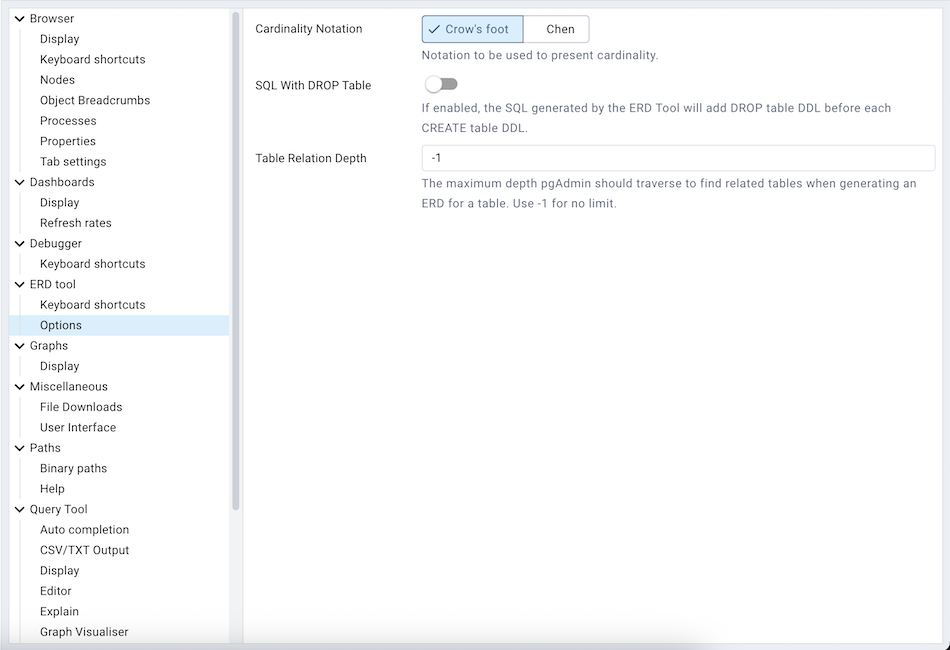
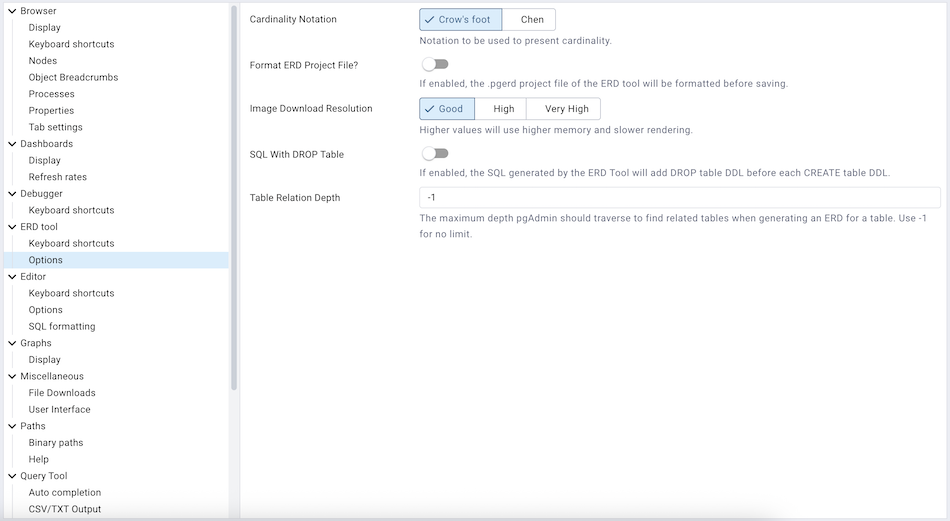
Add support for formatting .pgerd ERD project file. #8912

diff --git a/web/pgadmin/tools/erd/static/js/erd_tool/components/ERDTool.jsx b/web/pgadmin/tools/erd/static/js/erd_tool/components/ERDTool.jsx
@@ -677,9 +677,10 @@ export default class ERDTool extends React.Component {
 
   saveFile(fileName) {
     this.setLoading(gettext('Saving...'));
+    const serialFile = this.diagram.serialize(this.props.pgAdmin.Browser.utils.app_version_int);
     this.apiObj.post(url_for('file_manager.save_file'), {
       'file_name': decodeURI(fileName),
-      'file_content': JSON.stringify(this.diagram.serialize(this.props.pgAdmin.Browser.utils.app_version_int)),
+      'file_content': JSON.stringify(serialFile, null, this.state.preferences.format_pgerd ? 4 : null),
     }).then(()=>{
       this.props.pgAdmin.Browser.notifier.success(gettext('Project saved successfully.'));
       this.setState({

diff --git a/web/pgadmin/tools/erd/__init__.py b/web/pgadmin/tools/erd/__init__.py
@@ -457,6 +457,19 @@ class ERDModule(PgAdminModule):
             )
         )
 
+        self.preference.register(
+            'options',
+            'format_pgerd',
+            gettext('Format ERD Project File?'),
+            'boolean',
+            False,
+            category_label=PREF_LABEL_OPTIONS,
+            help_str=gettext(
+                'If enabled, the .pgerd project file of the ERD tool will '
+                'be formatted before saving.'
+            )
+        )
+
 
 blueprint = ERDModule(MODULE_NAME, __name__, static_url_path='/static')
 

diff --git a/docs/en_US/preferences.rst b/docs/en_US/preferences.rst
@@ -254,6 +254,12 @@ Use the fields on the *Options* panel to manage ERD preferences.
 * Use *Cardinality Notation* to change the cardinality notation format
   used to present relationship links.
 
+* Use *Format ERD Project File?* if you want to format the .pgerd ERD
+  project file. It's a JSON file which will be formatted.
+
+* Use *Image Download Resolution* to change the ERD image download
+  resolution. Higher values will use higher memory and slower rendering.
+
 * When the *SQL With DROP Table* switch is set to *True*, the SQL
   generated by the ERD Tool will add DROP table DDL before each CREATE
   table DDL.
